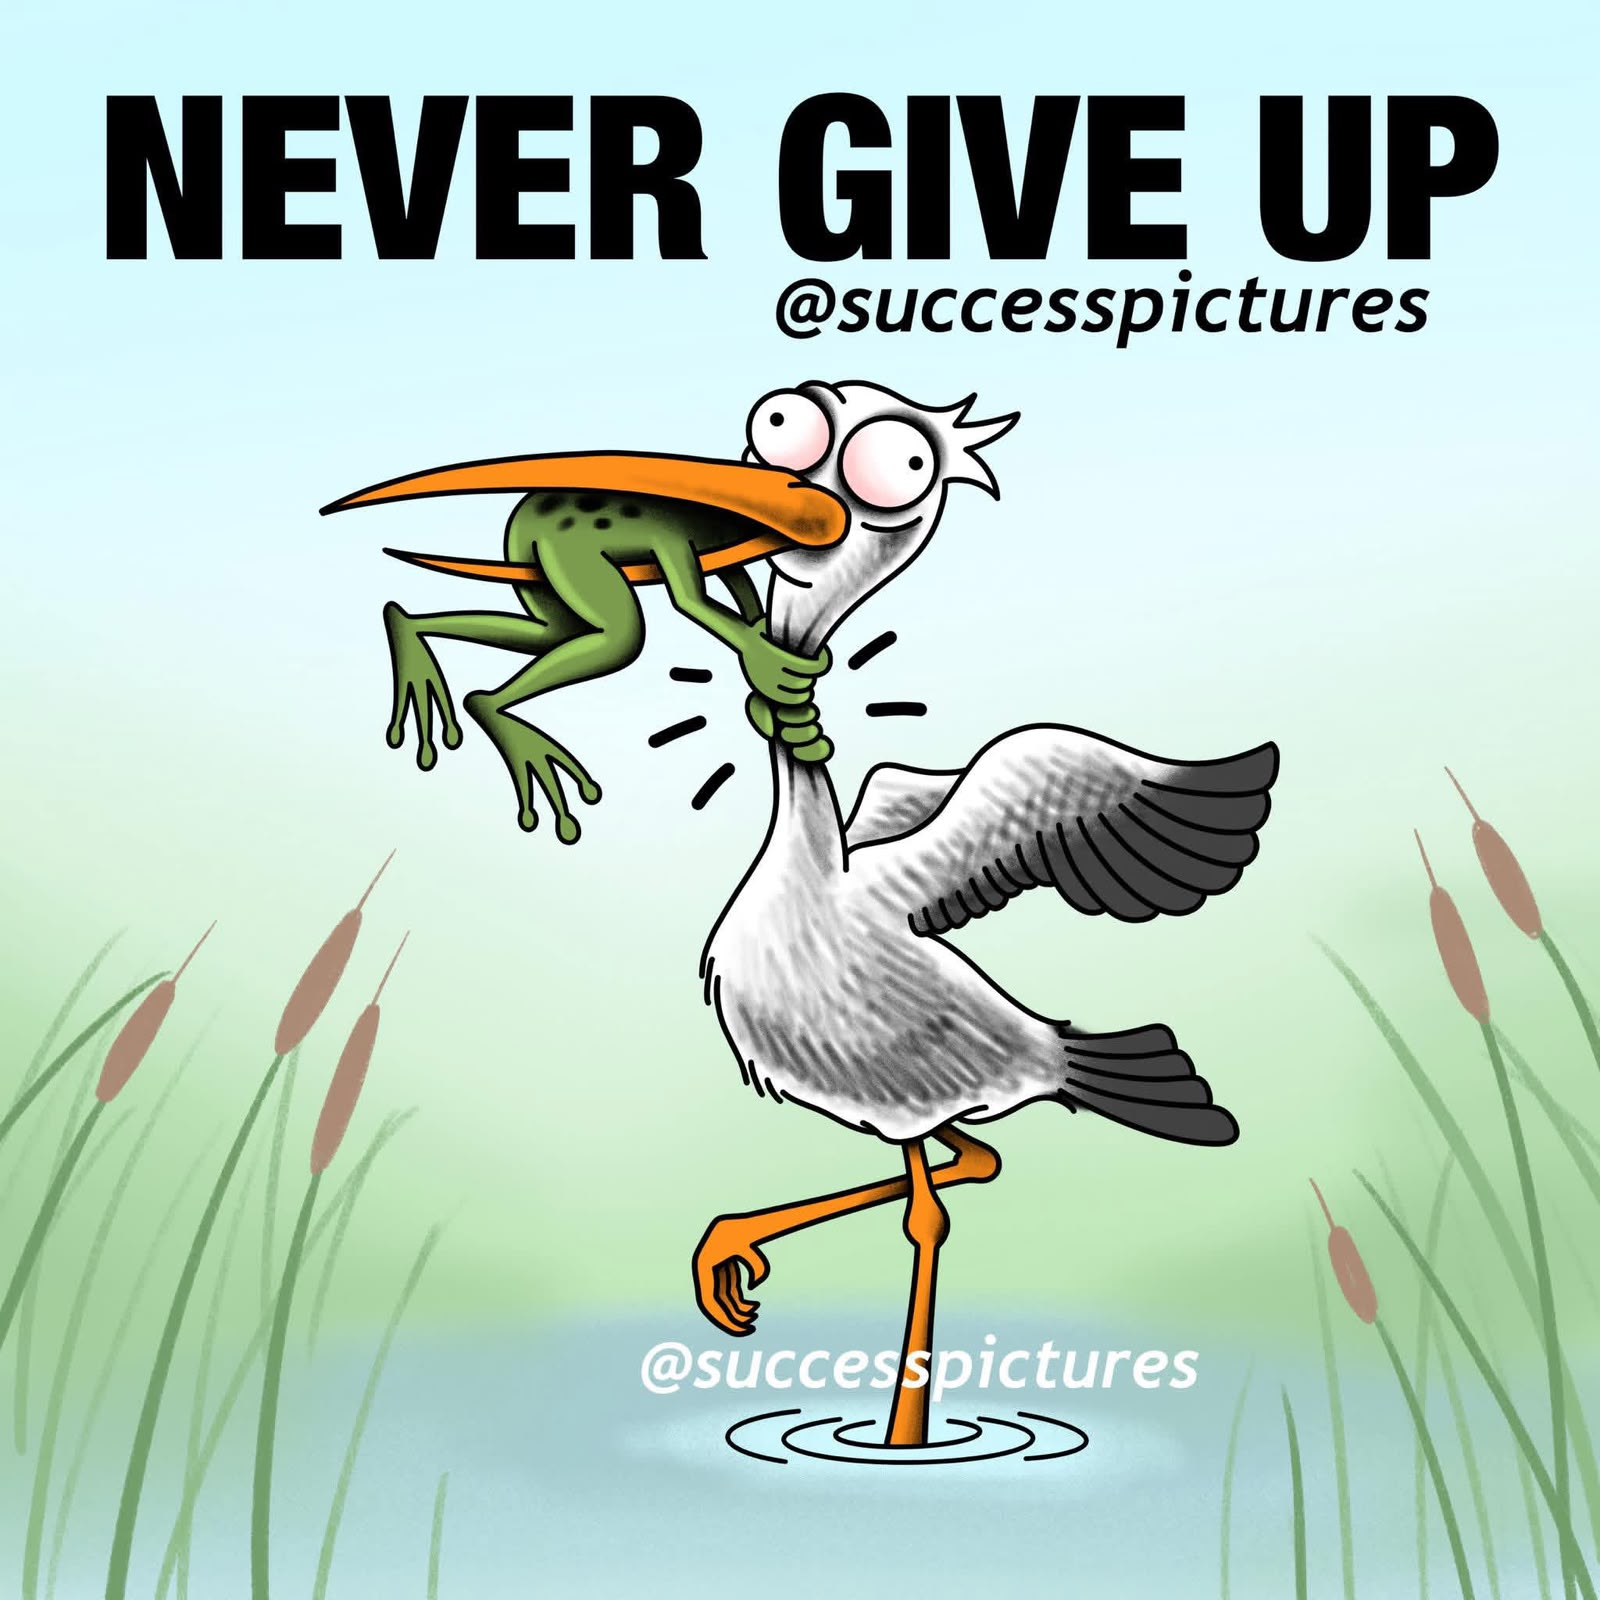
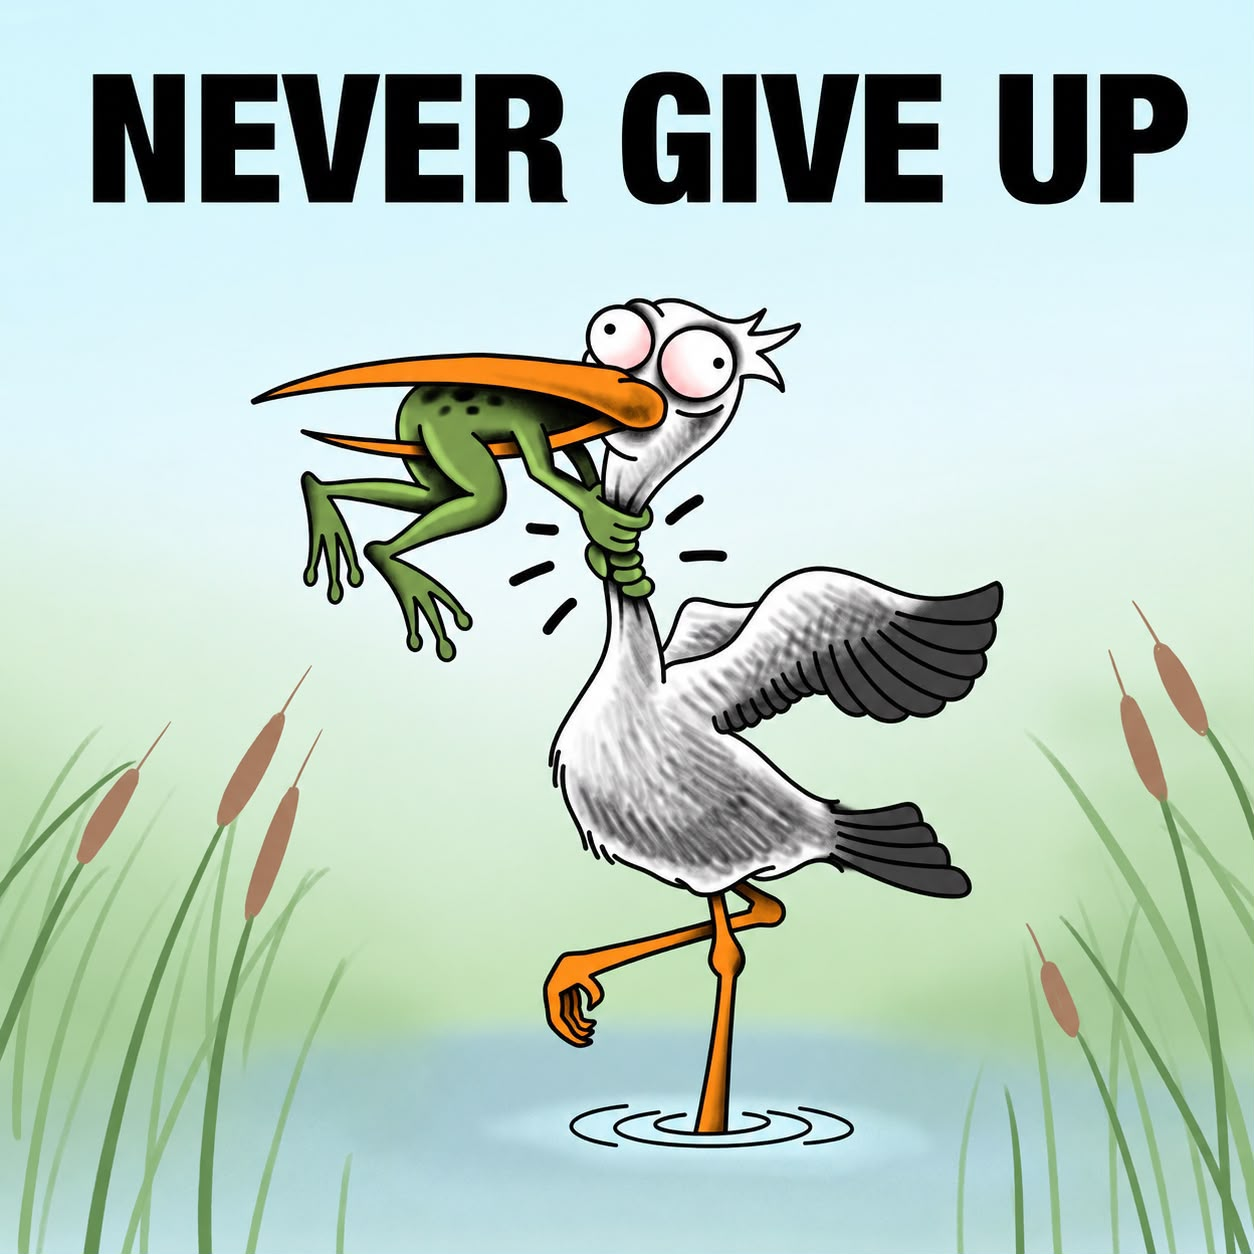
Add files via upload

diff --git a/index.html b/index.html
@@ -412,12 +412,12 @@
     /* RIGHT image column */
     .hero-right {
       position:relative; z-index:2;
-      display:flex; align-items:flex-end; justify-content:center;
-      height:100%; padding-top:32px; overflow:hidden;
+      display:flex; align-items:center; justify-content:center;
+      height:100%; padding:32px 24px; overflow:hidden;
     }
     .hero-img-container {
-      position:relative; width:100%; max-width:440px;
-      height:100%; display:flex; align-items:flex-end; justify-content:center;
+      position:relative; width:100%; max-width:560px;
+      height:100%; display:flex; align-items:center; justify-content:center;
     }
     .hero-img-glow {
       position:absolute; bottom:0; left:50%; transform:translateX(-50%);
@@ -817,7 +817,8 @@
 .hero-img-frame {
   aspect-ratio: 1/1 !important;
   border-radius: 16px !important;
-  max-width: 400px !important;
+  width: min(520px, 90%) !important;
+  max-width: 520px !important;
 }
 </style>
 </head>
@@ -831,11 +832,7 @@
     <div class="splash-line"><div class="splash-line-fill"></div></div>
   </div>
 
-  <!-- ===== NOTIFICATION BAR (original preserved) ===== -->
-  <div class="notif-bar" id="notifBar">
-    <span>🔥 كورسات جديدة متاحة الآن — انضم لأكثر من 5000 طالب مع أستاذ مصطفى سالم</span>
-    <button onclick="document.getElementById('notifBar').style.display='none'" aria-label="Close">×</button>
-  </div>
+
 
   <!-- ===== NAVBAR (original structure + new skin) ===== -->
   <nav class="navbar">
@@ -939,7 +936,7 @@
             <div class="f-sub">3000+ Reviews</div>
           </div>
         </div>
-        <div class="hero-img-frame" id="heroImgFrame" style="border-radius:16px;aspect-ratio:1/1;border:2px solid rgba(0,201,167,.25);overflow:hidden;">
+        <div class="hero-img-frame" id="heroImgFrame" style="border-radius:16px;aspect-ratio:1/1;border:2px solid rgba(0,201,167,.25);overflow:hidden;width:min(520px,90%);max-width:520px;">
           <img
             src="duck.jpeg"
             alt="Never Give Up"
